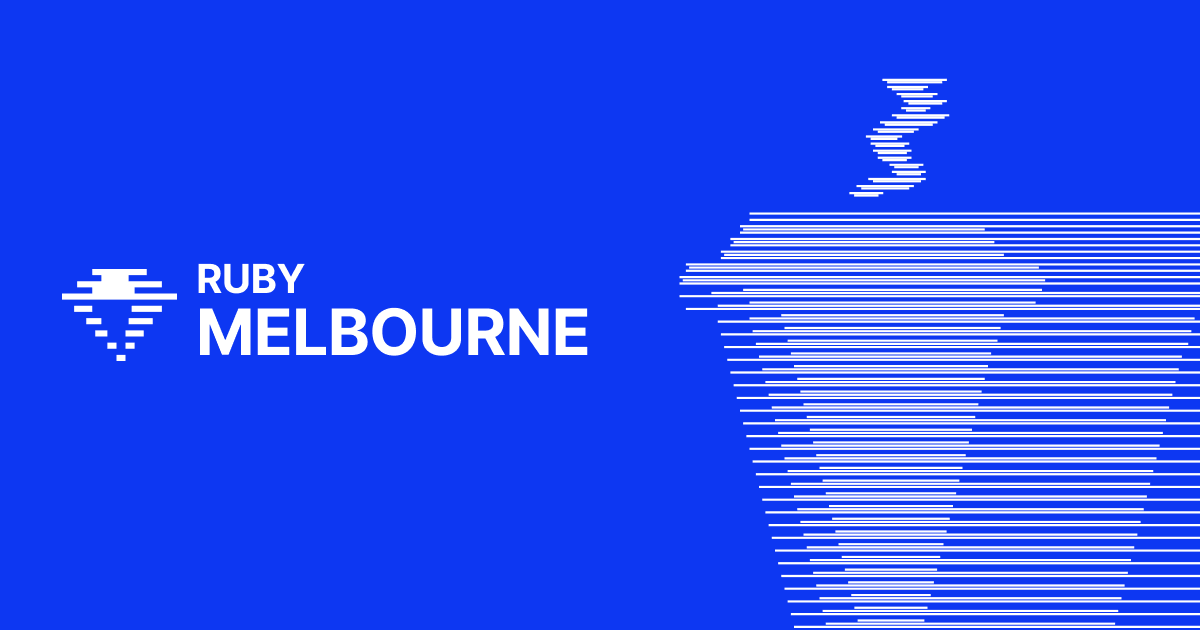
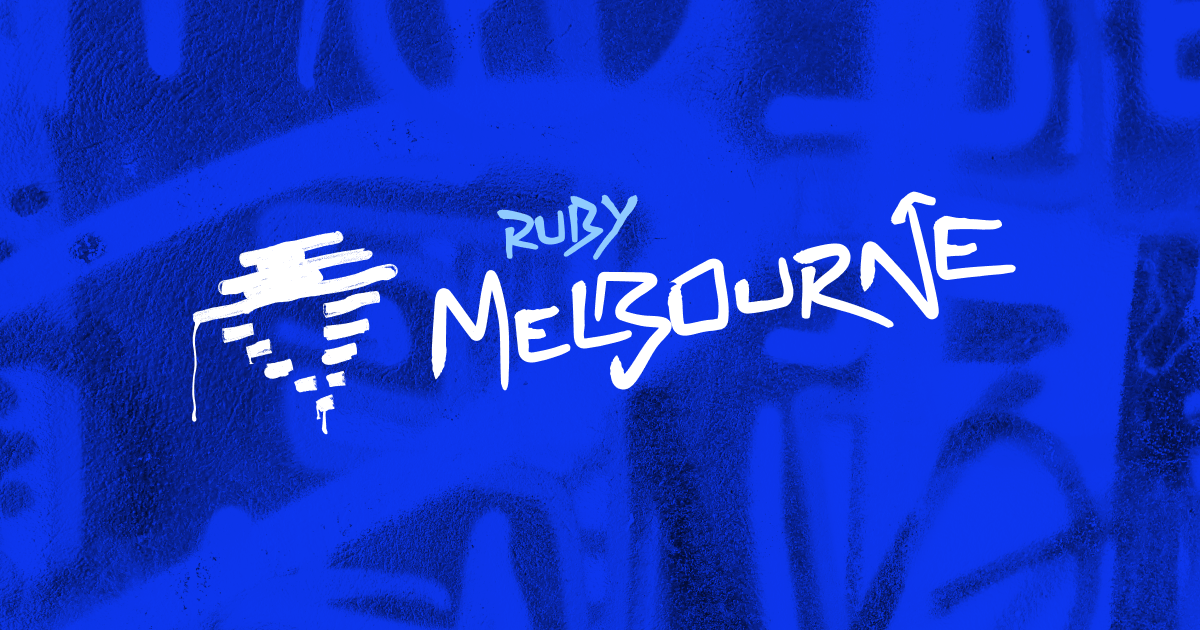
Tweak mobile design & use new graffiti assets (#331)
* Tweak mobile design

* Grafffffiiitttiii

* Made bars bigger

* Switched blue

* Tweak border colours

* Updated ogp image

* Fix spec

* Use new logomark

* Add footer & fix specs

---------

diff --git a/sites/melbourne/spec/models/melbourne/event_spec.rb b/sites/melbourne/spec/models/melbourne/event_spec.rb
@@ -129,7 +129,7 @@ RSpec.describe Melbourne::Event do
              og: {
                title: :title,
                description: :description,
-               image: "/vite-test/assets/ruby_melbourne_og-DhIJuUvR.png",
+               image: "/vite-test/assets/ruby_melbourne_og-DV58EnLN.png",
                url: "http://melbourne.localhost:3000/events/2025-04-24-make-vs-justfile-vs-mise-rails-8-new",
              },
              twitter: {

diff --git a/sites/melbourne/spec/requests/melbourne/home_controller_spec.rb b/sites/melbourne/spec/requests/melbourne/home_controller_spec.rb
@@ -10,7 +10,6 @@ RSpec.describe Melbourne::HomeController, type: :request do
       get melbourne.root_path
       expect(response.status).to eq(200)
       expect(response.body).to include("Ruby Melbourne")
-      expect(response.body).to include("Meetups and events by Ruby Australia")
     end
   end
 end
